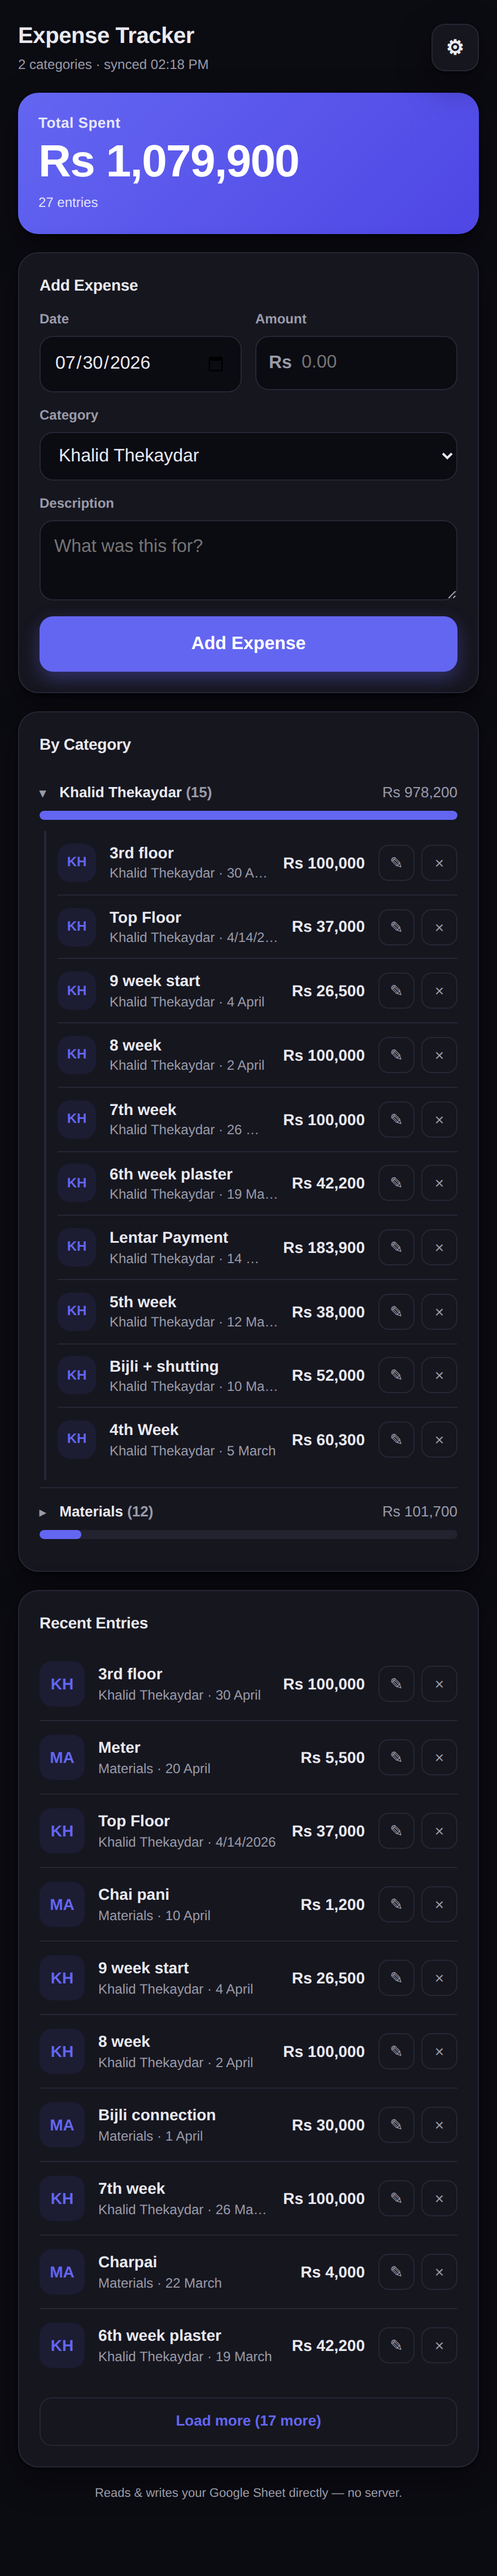
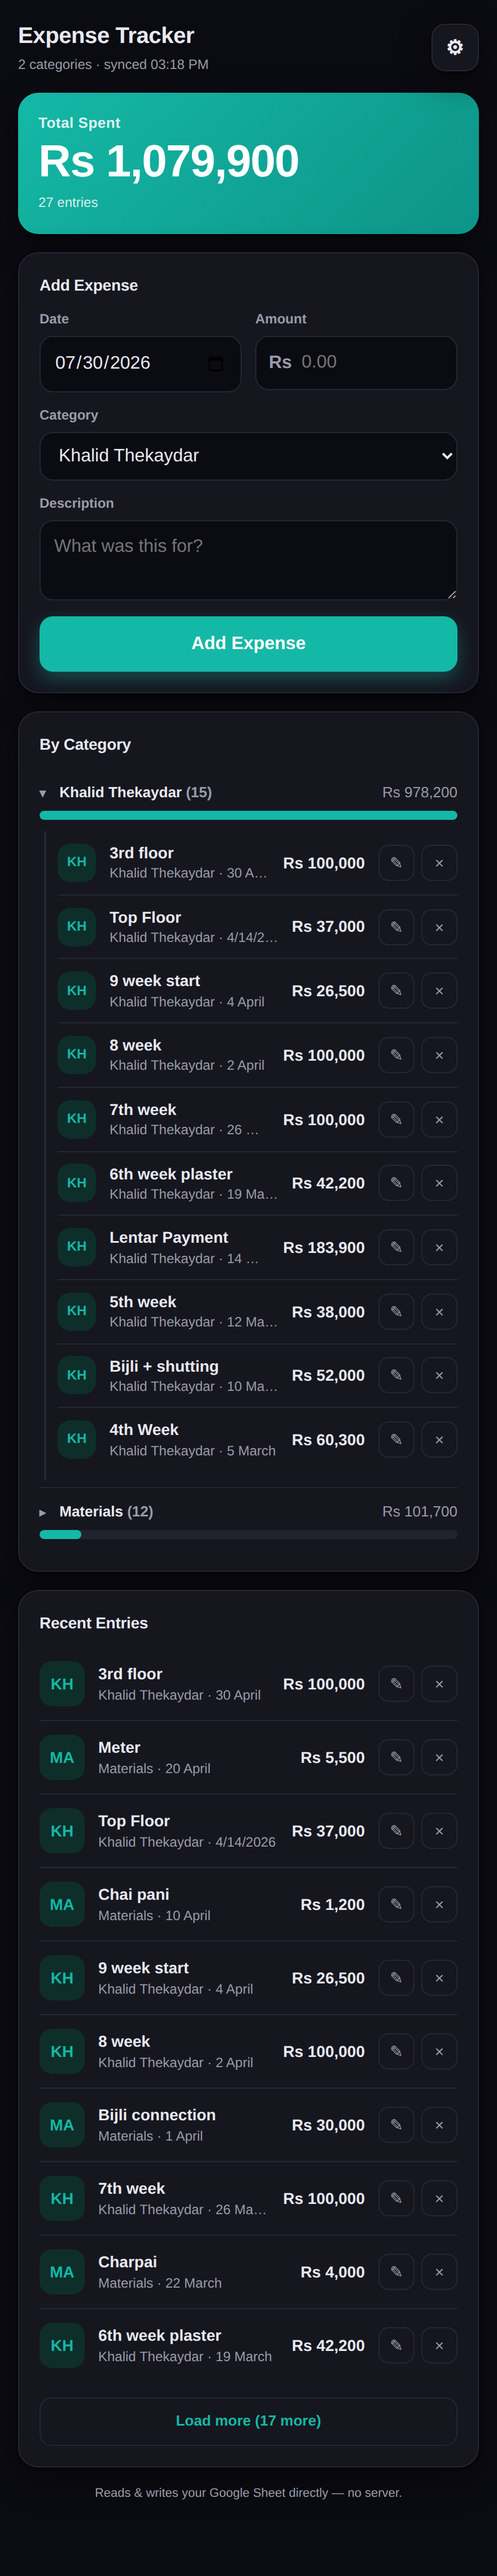
Switch accent theme from purple to teal
Recolor the app's accent from indigo/purple to teal across the Total card
gradient, buttons, progress bars, category chips, links, focus rings, and the
mobile theme-color (light + dark). Regenerate the docs screenshots in the new
theme.

Claude-Session: https://claude.ai/code/session_01SkupAQYSs2PVcV3vSYJSm5

diff --git a/index.html b/index.html
@@ -3,7 +3,7 @@
 <head>
 <meta charset="UTF-8" />
 <meta name="viewport" content="width=device-width, initial-scale=1, viewport-fit=cover" />
-<meta name="theme-color" content="#6366f1" media="(prefers-color-scheme: light)" />
+<meta name="theme-color" content="#14b8a6" media="(prefers-color-scheme: light)" />
 <meta name="theme-color" content="#0b0b12" media="(prefers-color-scheme: dark)" />
 <title>Expense Tracker</title>
 <!-- Google Identity Services (OAuth token client) + GAPI (Sheets API). No backend. -->
@@ -11,7 +11,7 @@
 <script src="https://accounts.google.com/gsi/client" async defer></script>
 <style>
   :root{
-    --indigo:#6366f1; --indigo-600:#4f46e5; --indigo-050:#eef2ff;
+    --indigo:#14b8a6; --indigo-600:#0d9488; --indigo-050:#ccfbf1;
     --bg:#f5f6fa; --card:#ffffff; --text:#1e1f27; --muted:#71727f;
     --border:#e6e7ef; --track:#ecedf5;
     --shadow:0 1px 2px rgba(20,20,40,.05), 0 8px 24px rgba(20,20,50,.06);
@@ -20,7 +20,7 @@
   @media (prefers-color-scheme: dark){
     :root{
       --bg:#0b0b12; --card:#16161f; --text:#e9e9f1; --muted:#9a9ba8;
-      --border:#262635; --track:#23232f; --indigo-050:#1c1c33;
+      --border:#262635; --track:#23232f; --indigo-050:#0e2e2a;
       --shadow:0 1px 2px rgba(0,0,0,.4), 0 10px 30px rgba(0,0,0,.45);
     }
   }
@@ -44,7 +44,7 @@
   }
   .icon-btn.square{width:42px;padding:0;font-size:18px}
   .icon-btn:active{transform:scale(.94)}
-  .icon-btn.accent{background:var(--indigo);color:#fff;border-color:transparent;box-shadow:0 6px 16px rgba(99,102,241,.35)}
+  .icon-btn.accent{background:var(--indigo);color:#fff;border-color:transparent;box-shadow:0 6px 16px rgba(20,184,166,.35)}
   .hidden{display:none !important}
   .card{background:var(--card);border:1px solid var(--border);border-radius:var(--radius);box-shadow:var(--shadow);padding:18px;margin-bottom:16px}
   .total-card{background:linear-gradient(135deg,var(--indigo),var(--indigo-600));color:#fff;border:none}
@@ -61,7 +61,7 @@
     border-radius:12px;padding:11px 12px;width:100%;outline:none;
     transition:border-color .15s ease, box-shadow .15s ease;
   }
-  input:focus,select:focus,textarea:focus{border-color:var(--indigo);box-shadow:0 0 0 3px rgba(99,102,241,.18)}
+  input:focus,select:focus,textarea:focus{border-color:var(--indigo);box-shadow:0 0 0 3px rgba(20,184,166,.18)}
   textarea{resize:vertical;min-height:64px}
   .amount-wrap{position:relative}
   .amount-wrap .cur{position:absolute;left:12px;top:50%;transform:translateY(-50%);color:var(--muted);font-weight:600;pointer-events:none}
@@ -69,7 +69,7 @@
   .btn{
     appearance:none;border:none;cursor:pointer;font:inherit;font-weight:700;background:var(--indigo);color:#fff;
     border-radius:12px;padding:13px 16px;width:100%;transition:transform .08s ease, opacity .15s ease;
-    box-shadow:0 6px 16px rgba(99,102,241,.35);
+    box-shadow:0 6px 16px rgba(20,184,166,.35);
   }
   .btn:active{transform:scale(.99)}
   .btn:disabled{opacity:.55;cursor:not-allowed;box-shadow:none}
